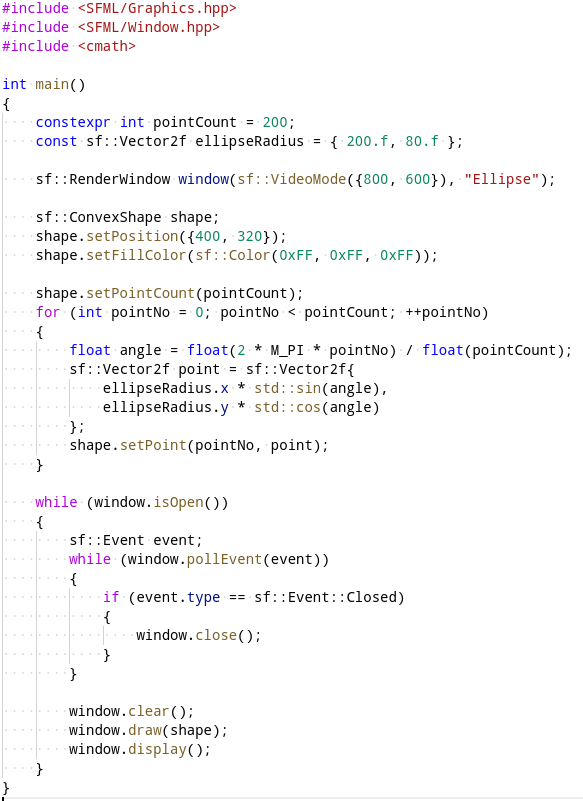
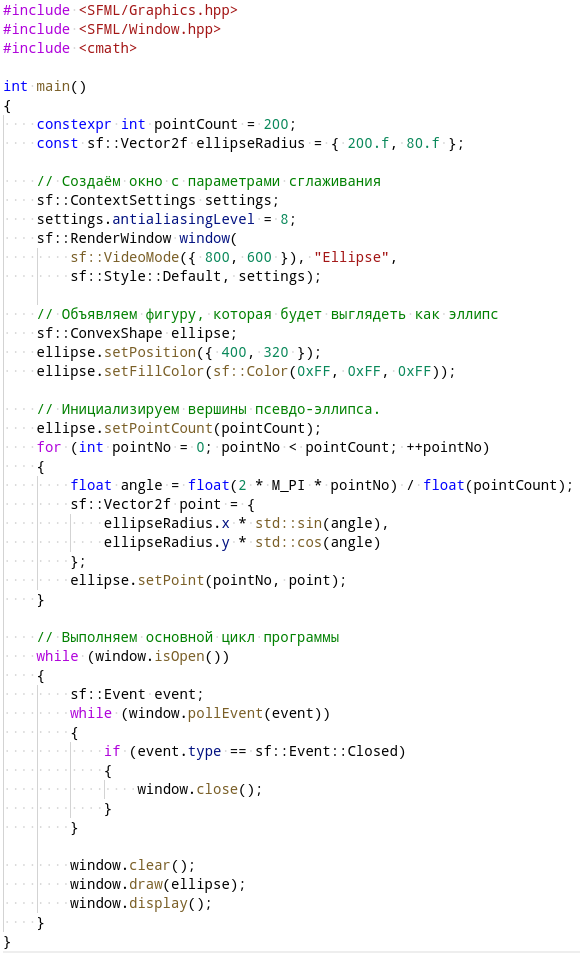
обновил скриншоты в sfml.2

diff --git a/_ps1/lesson_sfml_2.md b/_ps1/lesson_sfml_2.md
@@ -439,6 +439,8 @@ const float y = amplitudeY * std::sin(wavePhase / periodY);
 1. Создайте в каталоге `sfml.2` подкаталог `sfml2.1`, в нём создайте `CMakeLists.txt` аналогично предыдущим упражениям
 2. Создайте в каталоге `sfml2.1` файл `main.cpp` и в нём совместите волновое движение шарика с отталкиванием от стенок.
 
+>Подсказка: лучше использовать численный метод расчёта скорости и местоположения, а не аналитический. Другими словами, надо вычислять `deltaTime` на каждом кадре, перезапуская часы через `restart()`, и накапливать значение скорости и положения на каждой итерации цикла.
+
 ## Наглядная тригонометрия
 
 Мы применим два раздела математики: тригонометрию и линейную алгебру. В линейной алгебре двумерный вектор — это пара из двух чисел. Обычно говорят, что числа обозначают направление, но в реальности ими можно обозначать практически что угодно.
@@ -552,9 +554,20 @@ sf::Vector2f point = {
 
 ### Рисуем эллипс
 
-Теперь мы сделаем то, для чего SFML нет готового решения: нарисуем эллипс. Это сделать несложно, достаточно заменить постоянный радиус на вектор, хранящий радиусы по осям Ox и Oy: `const sf::Vector2f ellipseRadius = { 200.f, 80.f };`
+Теперь мы сделаем то, для чего SFML нет готового решения: нарисуем эллипс. Это сделать несложно, достаточно заменить постоянный радиус на вектор, хранящий радиусы по осям Ox и Oy: `const sf::Vector2f ellipseRadius = { 200.f, 80.f };`.
 
-Применим этот радиус к вычисляемым коодинатам `(x, y)`:
+Также мы повысим качество рисования: увеличим значение константы `pointCount` до 200 и вспользуемся специальным конструктором `sf::RenderWindow`, который принимает параметры в виде `sf::ContextSettings`. В эти параметры мы добавим `antialiasingLevel`, что обеспечит нам автоматическое сглаживание (antialiasing) краёв фигур за счёт рисования промежуточых полупрозрачных цветов на краях.
+
+```cpp
+// Создаём окно с параметрами сглаживания
+sf::ContextSettings settings;
+settings.antialiasingLevel = 8;
+sf::RenderWindow window(
+    sf::VideoMode({ 800, 600 }), "Ellipse",
+    sf::Style::Default, settings);
+```
+
+Доработайте код предыдущего примера таким образом:
 
 ![Код](img/code/sfml2_3v2.png)
 
@@ -571,6 +584,6 @@ sf::Vector2f point = {
 3. Доработайте этот пример, чтобы для вычисления радиуса использовалась функция от угла: `200 * sin(6 * angle)`
 4. Доработайте пример, чтобы полярная роза двигалась по окружности в пределах окна.
 
-Полярная роза должна выглядеть так (вы можете поменять цвет на свой вкус, рекомендуется использовать для этого [online color picker](http://getcolor.ru/0102E9)):
+Полярная роза, которая у вас получится, показана на скриншоте. Цвет установлен в `sf::Color(0xFF, 0x09, 0x80)`, но вы можете поменять цвет на свой вкус. Рекомендуется использовать для этого [online color picker](http://getcolor.ru/0102E9). Разукрасьте розу под свой вкус!
 
 ![Иллюстрация](img/labor/polar_rose.png)
